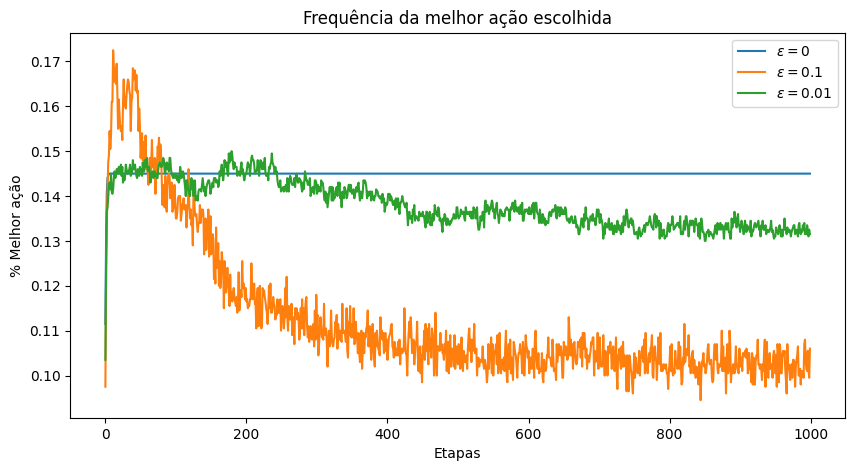
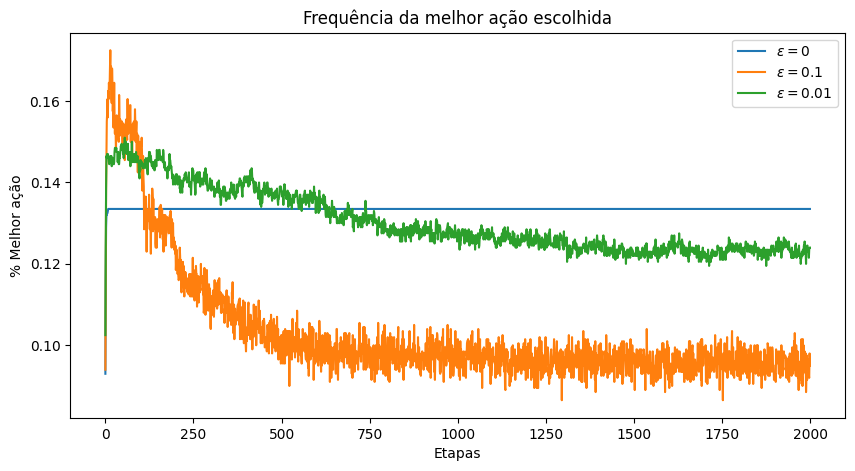
fix: Update simulation time steps in tarefa2.py

diff --git a/multi-armed-bandit/environment.py b/multi-armed-bandit/environment.py
@@ -9,7 +9,7 @@ class Environment:
     def reset(self):
         if self.seed is not None:
             random.seed(self.seed)
-        # Real reward for each action
+        # Real reward for each action  a= 1, ..., k
         self.q_true = random.randn(self.k) + self.base_reward
         self.best_action = argmax(self.q_true)
 

diff --git a/multi-armed-bandit/simulacoes/tarefa2.py b/multi-armed-bandit/simulacoes/tarefa2.py
@@ -21,7 +21,7 @@ debug_small = os.environ.get('DEBUG_SMALL') == '1'
 if debug_small:
     runs, time_steps = 50, 200
 else:
-    runs, time_steps = 2000, 1000
+    runs, time_steps = 1000, 2000
 
 mean_best_action_counts, mean_rewards = simulate(runs=runs, time=time_steps, agents=agents, environment=env)
 
